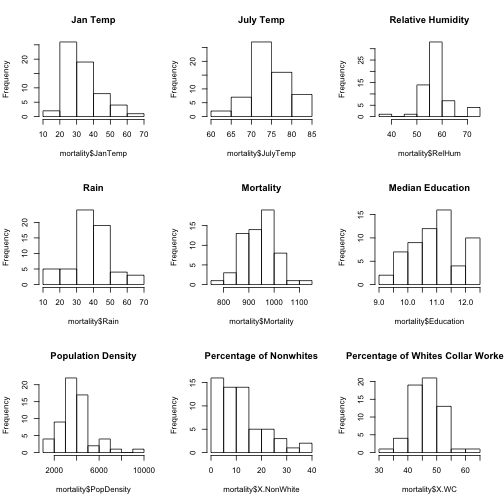
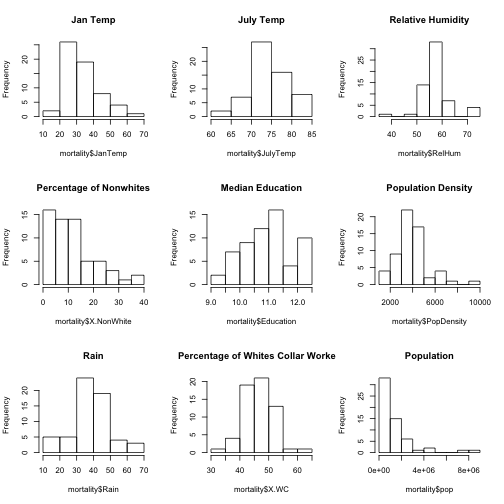
modeling section

diff --git a/mortality.md b/mortality.md
@@ -8,10 +8,12 @@ Introduction
 ========================================================
 Researchers at General Motors collected data on 60 U.S. Standard Metropolitan Statistical Areas (SMSA's) in a study of whether air pollution contributes to mortality.
 
+I will attempt to use this dataset to answer the question, Does Pollition Affect Mortality? If not what does?
+
 
 Summary of dataset
 ========================================================
-
+The following are distributions of variables excluding polution variables
 
 ```r
 mortality <- read.csv('/Users/ag/Desktop/mortality.csv')
@@ -19,17 +21,17 @@ par(mfrow=c(3,3))
 hist(mortality$JanTemp, main= "Jan Temp")
 hist(mortality$JulyTemp, main= "July Temp")
 hist(mortality$RelHum, main= "Relative Humidity") 
-hist(mortality$Rain, main = "Rain")
-hist(mortality$Mortality, main = "Mortality")
+hist(mortality$X.NonWhite, main = "Percentage of Nonwhites")
 hist(mortality$Education, main = "Median Education")
 hist(mortality$PopDensity, main = "Population Density")
-hist(mortality$X.NonWhite, main = "Percentage of Nonwhites")
+hist(mortality$Rain, main = "Rain")
 hist(mortality$X.WC, main = "Percentage of Whites Collar Workers")
+hist(mortality$pop, main = "Population")
 ```
 
 ![plot of chunk unnamed-chunk-1](mortality-figure/unnamed-chunk-1-1.png)
 
-Analysis of Dependent Variable
+Analysis of Dependent Variable - Age adjusted mortality
 ========================================================
 The dependent variable is age adjusted mortality.
 
@@ -43,7 +45,8 @@ Age adjusting rates is a way to make fairer comparisons between groups with diff
 ```r
 library('Hmisc')
 library('psych')
-hist(mortality$Mortality)
+mortality <- read.csv('/Users/ag/Desktop/mortality.csv')
+hist(mortality$Mortality, main = "Age adjusted mortality")
 ```
 
 ![plot of chunk unnamed-chunk-2](mortality-figure/unnamed-chunk-2-1.png)
@@ -66,10 +69,10 @@ The independent variables include all pollution variables (HCPot, NOxPot, SO2Pot
 - Require log transformations
 
 
-
 ```r
 library('Hmisc')
 library('psych')
+mortality <- read.csv('/Users/ag/Desktop/mortality.csv')
 par(mfrow=c(2,2))
 hist(mortality$HCPot, main = "HC pollution potential")
 hist(mortality$NOxPot, main = "Nitrous Oxide pollution potential")
@@ -95,14 +98,72 @@ NOxPot    26.65  5.98
 S02Pot     2.96  8.18
 NOx       26.65  5.98
 ```
+
+Log transformation for pollution variables 
+========================================================
+
+```r
+mortality <- read.csv('/Users/ag/Desktop/mortality.csv')
+par(mfrow=c(2,2))
+hist(log(mortality$HCPot))
+hist(log(mortality$NOxPot))
+hist(log(mortality$S02Pot))
+hist(log(mortality$NOx))
+```
+
+![plot of chunk unnamed-chunk-4](mortality-figure/unnamed-chunk-4-1.png)
 Correlations
 ========================================================
-Multicollinearity issues between HCPot, NOx, and NOxPot variables
+Multicollinearity issues between HCPot, NOx, and NOxPot variables.
+
+Unsure how multicollinearty affects predictions or rsquared if variables are used.
 
 ```r
 library('corrplot')
+mortality <- read.csv('/Users/ag/Desktop/mortality.csv')
 correlation <- cor(mortality[,c("Education","HCPot","income","JanTemp","JulyTemp","Mortality","NOx","NOxPot","pop","pop.house","PopDensity","Rain","RelHum","S02Pot","X.NonWhite","X.WC")], use="complete")
 corrplot(correlation)
 ```
 
-![plot of chunk unnamed-chunk-4](mortality-figure/unnamed-chunk-4-1.png)
+![plot of chunk unnamed-chunk-5](mortality-figure/unnamed-chunk-5-1.png)
+Modeling
+========================================================
+Procedure - Stepwise Backward Elimination Regression
+
+
+```r
+mortality <- read.csv('/Users/ag/Desktop/mortality.csv')
+fit <- lm(Mortality ~ Education+JanTemp+Rain+log(mortality$X.NonWhite), data=mortality)
+summary(fit)
+```
+
+```
+
+Call:
+lm(formula = Mortality ~ Education + JanTemp + Rain + log(mortality$X.NonWhite), 
+    data = mortality)
+
+Residuals:
+    Min      1Q  Median      3Q     Max 
+-92.338 -20.866   3.524  24.513 100.360 
+
+Coefficients:
+                           Estimate Std. Error t value Pr(>|t|)    
+(Intercept)               1122.5996    89.9133  12.485  < 2e-16 ***
+Education                  -24.1866     7.1961  -3.361  0.00142 ** 
+JanTemp                     -1.6368     0.5838  -2.804  0.00696 ** 
+Rain                         1.1430     0.5236   2.183  0.03332 *  
+log(mortality$X.NonWhite)   43.9467     6.8117   6.452 2.97e-08 ***
+---
+Signif. codes:  0 '***' 0.001 '**' 0.01 '*' 0.05 '.' 0.1 ' ' 1
+
+Residual standard error: 40.38 on 55 degrees of freedom
+Multiple R-squared:  0.6074,	Adjusted R-squared:  0.5788 
+F-statistic: 21.27 on 4 and 55 DF,  p-value: 1.208e-10
+```
+
+```r
+plot(fit)
+```
+
+![plot of chunk unnamed-chunk-6](mortality-figure/unnamed-chunk-6-1.png)![plot of chunk unnamed-chunk-6](mortality-figure/unnamed-chunk-6-2.png)![plot of chunk unnamed-chunk-6](mortality-figure/unnamed-chunk-6-3.png)![plot of chunk unnamed-chunk-6](mortality-figure/unnamed-chunk-6-4.png)
